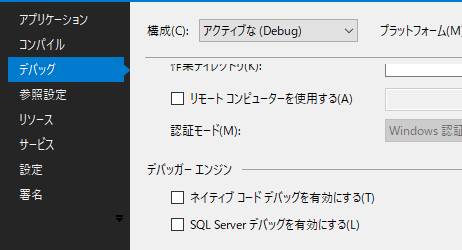
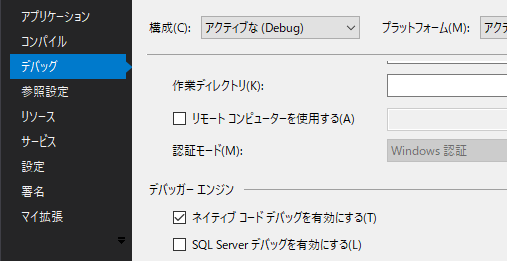
fix readme

diff --git a/readme.md b/readme.md
@@ -1,30 +1,44 @@
-# VB.NETからWindows API呼び出しエラー箇所へステップインして引数を調査する手順
+# VB.NETからWindows APIの呼び出し(PInvoke)をステップインして動作確認を行うための手順(AccessViolationException)
 
 ## 前書き
-* Visual Studioのネイティブデバッグ機能を使い、Windows API側に引き渡されている引数の値を直接確認する手順を記載します。
 
-* VB6のソースをVB.NETに移行した場合に苦労するのがAPI呼び出しのエラー修正です。困ったときの助けになればと思います。
-* 基本的にはDeclareの定義が間違っているか、引数が間違っているのでググって修正しますが、
-引数を確認することで本当に想定した値がセットされているのか確認することができます。
+* VB6のソースをVB.NETに移行した場合に苦労するのがAPI呼び出しエラーの修正です。困ったときの助けになればと思います。
 
-* Visual Studioの初期設定では、ネイティブコードのデバッグが有効になっていないため、設定変更が必要です。
+* Visual Studioのネイティブデバッグ機能を使い、Windows API側に引き渡されている引数の値を**API側から**確認する手順を記載します。
+
+  * .NET側からはポインタや、アドレスの参照先がわからないのでネイティブデバッグします。
+
+* Declareの定義を修正、もしくは引数を修正後、本当に想定した値がセットされているのか確認することができます。
+
+* Visual Studioの初期設定では、ネイティブコードデバッグが有効になっていないため、あちこちの設定を変更します。
+
+* 動作確認用のソースはこちらで公開しています。
+
+https://github.com/murasuke/DebugPInvokeVB
 
 
 ## 環境
 
 * Visual Studio 2019 (Visual Basic)
 
-    VS2015以降であれば、ほぼ同じだと思います(テンプレート文字列「$"～"」はコメントアウトするか、修正してください）
+    VS2015以降であれば、ほぼ同じだと思います。
 
 ## サンプルソース
 
-（CreateDCの呼び出しでエラーになります）
+* CreateDCの呼び出しでエラーになります(バグっています。VB6のソースをコンバートしたイメージで書いています。)
+
+  * プリンターの描画領域サイズをGetDeviceCaps()で取得するサンプルコードです。
+    
+  * DeleteDC()の3番目、4番目はnullを指定します(nullがないので0で代用)。本来はDEVMODE構造体を渡すのですが、nullでも動作上は問題ないです。
 
 ```vb
 Module DebugPInvoke
+    ' API定義
     Declare Function CreateDC Lib "gdi32" Alias "CreateDCA" _
-        (ByVal lpDriverName As String, ByVal lpDeviceName As String, ByVal lpOutput As String, ByVal lpInitData As Object) As Integer
-    Declare Function GetDeviceCaps Lib "gdi32" Alias "GetDeviceCaps" (ByVal hdc As Integer, ByVal nIndex As Integer) As Integer
+        (ByVal lpDriverName As String, ByVal lpDeviceName As String, 
+        ByVal lpOutput As String, ByVal lpInitData As Object) As Integer
+    Declare Function GetDeviceCaps Lib "gdi32" Alias "GetDeviceCaps" _
+        (ByVal hdc As Integer, ByVal nIndex As Integer) As Integer
     Declare Function DeleteDC Lib "gdi32" Alias "DeleteDC" (ByVal hdc As Integer) As Integer
 
     Sub Main()
@@ -34,8 +48,8 @@ Module DebugPInvoke
         Dim hDC = CreateDC("WINSPOOL", PRINTER_NAME, 0, 0)
 
         ' プリンターの描画サイズを取得
-        Dim width_pix = GetDeviceCaps(hDC, 8) ' HORZRES, ピクセル単位の画面の幅
-        Dim height_pix = GetDeviceCaps(hDC, 10) 'VERTRES, ピクセル単位（ラスタ行数）の画面の高さ
+        Dim width_pix = GetDeviceCaps(hDC, 8) ' 8:HORZRES, ピクセル単位の画面の幅
+        Dim height_pix = GetDeviceCaps(hDC, 10) '10:VERTRES, ピクセル単位の画面の高さ
         Debug.WriteLine(PRINTER_NAME & " : " & width_pix & " × " & height_pix)
 
         DeleteDC(hDC)
@@ -43,9 +57,13 @@ Module DebugPInvoke
 End Module
 ```
 
-例外発生画面
+* 例外発生画面
+
+  F5で実行すると例外が発生します。
 
     ![Exception_CreateDC.png](./img/Exception_CreateDC.png)
+
+    このエラーメッセージでは、どこに原因があるか見当もつきません。ネイティブコードをデバッグできるように設定して、API側から引数を調べてみます。
 
 ## デバッグのための準備
 
@@ -71,25 +89,23 @@ End Module
 
     ![Enable_SymbolServer.png](./img/Enable_SymbolServer.png)
 
-    ※デバッグ開始時に時間がかかります。
+    ※デバッグ開始時に多少時間がかかるようになります。
 
 これで完了です。
 
 ## ネイティブコード側からAPIの引数を確認する
 
-### ここでネイティブコードにステップインするため、設定をを行います。
+### ここではネイティブコードにステップインするため、デバッグを開始してから設定をを行います。
 
-1. CreateDC()にブレークポイントセット
-1. `F5`でデバッグを開始して、ブレークポイントで止まるのを待ちます(シンボル情報をダウンロードするため少し時間がかかる)
+1. `CreateDC()`行にブレークポイントセット(`F9`)
+1. `F5`でデバッグを開始して、ブレークポイント(`CreateDC`)で止まるのを待ちます(シンボル情報をダウンロードするため少し時間がかかる)
 1. `呼び出し履歴`を表示
 
     メニューバーの`デバッグ` ⇒ `ウィンドウ` ⇒ `呼び出し履歴` 
 
-    ![Show_Stacktrace.png](./img/Show_Stacktrace.png)
-
-1. `呼び出し履歴`を右クリックして`外部コードの表示`
-
     ![Enable_ExternalCode.png](./img/Enable_ExternalCode.png)
+
+    `マイコードのみを有効にする`のチェックを外したため、ネイティブコードの関数名も表示されています。
 
 1. ソースコードを右クリックして`逆アセンブリへ移動`をクリック
 
@@ -105,7 +121,7 @@ End Module
 
     ![Stacktrace_External.png](./img/Stacktrace_External.png)
 
-### CrateDC()側から引数を確認する
+### `CrateDC()`側から引数を確認する (スタックのベースポインタ(EBP)から探します)
 
 1. `呼び出し履歴`から`gdi32.dll!_CreateDCA@16()`を選択します
 
@@ -117,9 +133,18 @@ End Module
 
 1. メモリウィンドウを右クリックして `4バイトの変数` と `16進数で表示` を選択します
 
-1. メモリ1のアドレスに`@ebp`と入力します。(ベースポインタ⇒スタック上に確保されているデータの格納領域の基点)
+    32bitのプロセスで動いているため、4バイト単位に区切って表示をします。
+
+1. メモリ1のアドレスに`ebp`と入力します。(ベースポインタ⇒スタック上に確保されているデータの格納領域の基点)
 
     ![Memory_CreateDC.png](./img/Memory_CreateDC.png)
+
+    `ebp`はCPUのレジスタの名前です。詳細は下記のページなどを参照してくださいい。
+
+    [x86アセンブリ言語での関数コール](https://vanya.jp.net/os/x86call/)
+
+    [スタックフレーム - 関数に渡される引数を知る](https://www.keicode.com/debug/dbg205.php)
+
 
 * 左上から順に、ひとつ前のフレームのEBP、リターンアドレス(関数の戻り先アドレス)、引数1、引数2、引数3、引数4です。
 
@@ -137,19 +162,21 @@ End Module
 
     ![Memory_Args1.png](./img/Memory_Args1.png)
 
+    同様に引数2には`Microsoft Print to PDF`が入っています。
+
     ![Memory_Args2.png](./img/Memory_Args2.png)
 
-* 引数3と引数4を見ると、ソース上では`0(null)`を渡したつもりですが、なぜか0ではない値がセットされてます。
+* 引数3と引数4を見ると、ソース上では`0(null)`を渡したつもりですが、なぜか0ではない値(00d8bcac,00000003)がセットされてます。
 
 ```VB
-Dim hDC = CreateDC("WINSPOOL", PRINTER_NAME, 0, 0)
+    Dim hDC = CreateDC("WINSPOOL", PRINTER_NAME, 0, 0)
 ```
 
 * 引数3の値のアドレスを見ると文字列で'0'が入っています。⇒引数の型をStringで宣言しているため、数値の0が文字に変換され、そのポインタがCrateDC()に渡されていることがわかります。
 
     ![Memory_Args3.png](./img/Memory_Args3.png)
 
-* 引数4の`00000003`は何かわかりませんが、少なくとも期待していた`0`ではない値がセットされています。
+* 引数4の`00000003`は何かわかりませんが、少なくとも期待していた`0`ではない値がセットされていることがわかります。
 
 
     __VB側で渡した値と異なる原因はDeclareの宣言がまちがっているためです。修正してもう一度試してみます__
@@ -169,8 +196,17 @@ Declare Function CreateDC Lib "gdi32" Alias "CreateDCA" _
 
 もう一度デバッグで確認すると、3番目の引数と4番目の引数に`0（null）`がセットされていることが確認できました。
 
-![Memory_FixBug.png](./img/Memory_FixBug.png)
+  ![Memory_FixBug.png](./img/Memory_FixBug.png)
 
 
-* 例外で停止しなくなるため`逆アセンブリへ移動`した後、下記call命令の位置でF11でステップインする必要があります。
-![Stepin_CreteDC.png](./img/Stepin_CreteDC.png)
+
+* 例外で停止しなくなるため`逆アセンブリへ移動`した後、下記call命令の位置にブレークポイントをセットして停止させた後、F11でステップインする必要があります。
+
+  ![Stepin_CreteDC.png](./img/Stepin_CreteDC.png)
+
+
+## 後書き
+
+あまり使わない機能ですので、不正確な部分や、説明が不足している箇所があるかもしれません。
+添削や過不足あれば、お気軽にご指摘ください。
+
